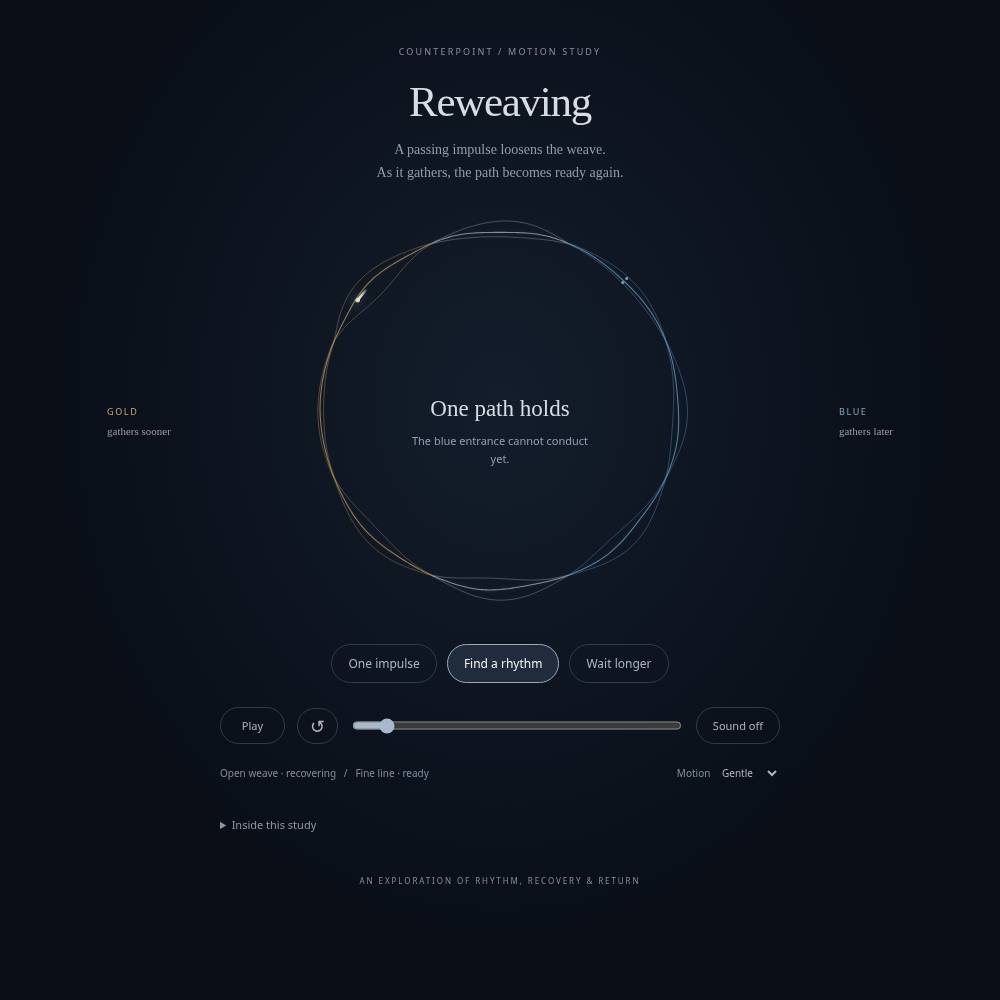
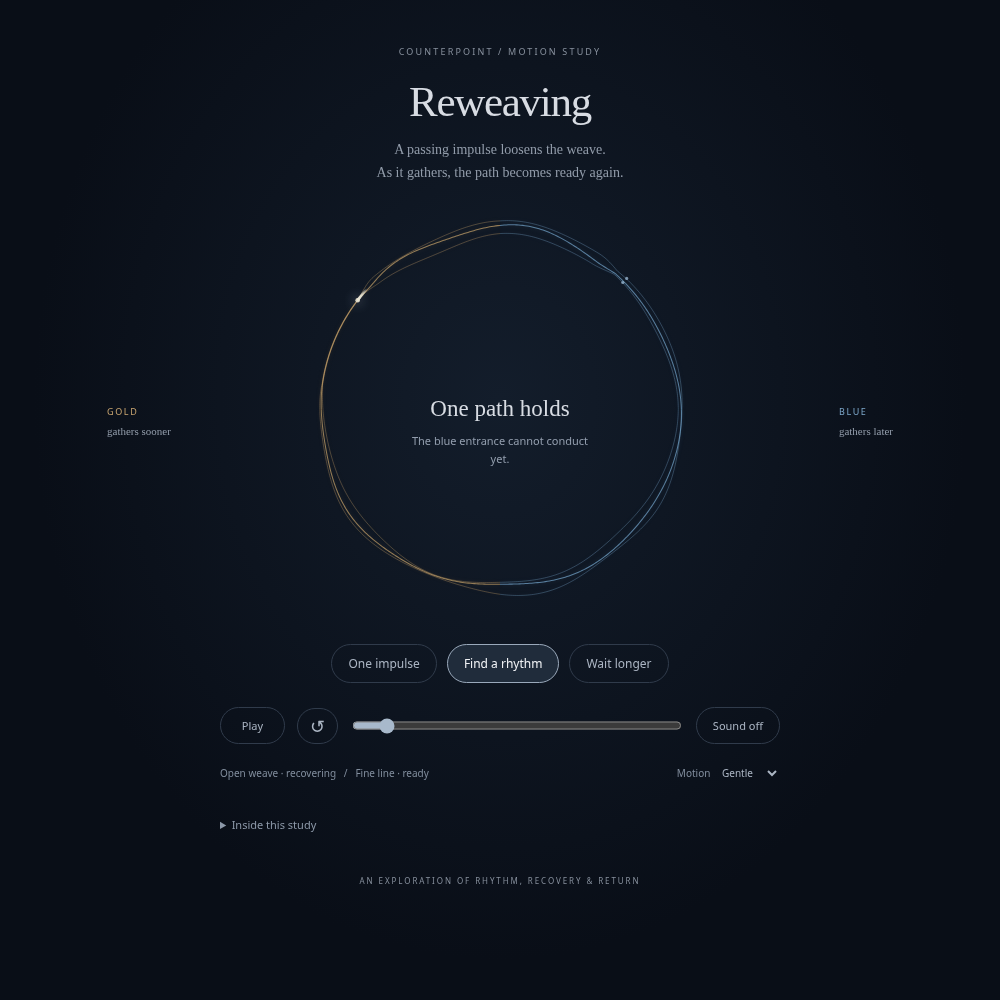
Make weave open behind traveling impulses with varied organic folds

diff --git a/dist/circulation-weave.html b/dist/circulation-weave.html
@@ -3,7 +3,7 @@
 <main><header><span class="eyebrow">COUNTERPOINT / MOTION STUDY</span><h1>Reweaving</h1><p>A passing impulse loosens the weave.<br>As it gathers, the path becomes ready again.</p></header>
 <section class="stage" aria-label="Animated conduction ring"><canvas id="ring" role="img" aria-label="Gold and blue filaments show local recovery. An open weave is refractory, a gathered line is ready."></canvas><div class="center"><span id="phase">Ready to begin</span><p id="explanation">Two paths. Different recovery.</p></div><span class="region gold">GOLD<span>gathers sooner</span></span><span class="region blue">BLUE<span>gathers later</span></span></section>
 <section class="controls" aria-label="Playback controls"><div class="scenarios" role="group" aria-label="Choose an experiment"><button data-mode="single">One impulse</button><button data-mode="reentry" aria-pressed="true">Find a rhythm</button><button data-mode="late">Wait longer</button></div><div class="transport"><button id="play">Play</button><button id="restart" aria-label="Restart experiment">↺</button><input id="timeline" type="range" min="0" max="3600" step="1" value="0" aria-label="Scrub simulation"><button id="sound" aria-pressed="false">Sound off</button></div><div class="foot"><span>Open weave · recovering &nbsp; / &nbsp; Fine line · ready</span><label>Motion <select id="speed" aria-label="Playback speed"><option value="6">Slow</option><option value="4" selected>Gentle</option><option value="2">Flowing</option></select></label></div></section>
-<details><summary>Inside this study</summary><p>Gold tissue has a shorter refractory period than blue tissue. Conduction speed is the same on both paths. “Find a rhythm” delivers a second impulse while the blue entrance is still refractory. Its wave stops there, while the other wave travels around the ring and returns after the blue tissue has recovered.</p><p>The filament spacing represents remaining refractoriness at each simulation site. The curves between sites are an artistic interpolation. Every traveling impulse and block comes from the Counterpoint simulation.</p></details><footer>AN EXPLORATION OF RHYTHM, RECOVERY & RETURN</footer></main><script>const __modules = {};
+<details><summary>Inside this study</summary><p>Gold tissue has a shorter refractory period than blue tissue. Conduction speed is the same on both paths. “Find a rhythm” delivers a second impulse while the blue entrance is still refractory. Its wave stops there, while the other wave travels around the ring and returns after the blue tissue has recovered.</p><p>The impulse opens the filaments as it passes. Their gathering follows an interpolation of the neighboring sites’ refractory periods. Between-site geometry is an artistic representation, not a continuous tissue model. Every traveling impulse and block comes from the Counterpoint simulation.</p></details><footer>AN EXPLORATION OF RHYTHM, RECOVERY & RETURN</footer></main><script>const __modules = {};
 __modules["src/engine/agenda.js"] = (()=>{
 function earlier(a, b) {
   return a.tick - b.tick || a.phase - b.phase || a.order - b.order ||
@@ -1723,7 +1723,61 @@ function openingAt(node, time) {
   return Math.pow(Math.max(0, Math.min(1, (node.refractoryUntilMs - time) / node.erpMs)), 0.55);
 }
 
-return {HORIZON,createWeaveTrace,openingAt};
+const smooth = x => { x = Math.max(0, Math.min(1, x)); return x*x*(3-2*x); };
+
+// Build once per experiment. These are presentation samples, not new engine sites.
+// Each sample can open only after a real transit has physically crossed it.
+function createWeaveSamples(trace, steps = 70) {
+  const launches = trace.events.filter(e => e.type === 'conduction_launched');
+  const collisions = new Map();
+  for (const e of trace.events) if (e.type === 'conduction_collision') {
+    for (const id of e.transitIds) collisions.set(id, e.tMs);
+  }
+  const captures = new Set(trace.events.filter(e => e.type === 'activation').map(e => `${e.nodeId}/${e.tMs}`));
+  return Array.from({length:8}, (_, link) => Array.from({length:steps+1}, (_, k) => {
+    const u=k/steps, angle=(link+u)*Math.PI/4;
+    const erp=trace.world.nodes[link].erpMs*(1-u)+trace.world.nodes[(link+1)%8].erpMs*u;
+    const passages=[];
+    for(const transit of launches) {
+      if(transit.linkId!==`L${link}`)continue;
+      const forward=transit.fromNodeId===`R${link}`;
+      const progress=forward?u:1-u;
+      const arrival=transit.departureMs+progress*(transit.arrivalMs-transit.departureMs);
+      if(arrival>(collisions.get(transit.transitId)??Infinity))continue;
+      const captured=captures.has(`${transit.toNodeId}/${transit.arrivalMs}`);
+      // A failed arrival cannot reopen its refractory destination. Its visual
+      // disturbance fades near that endpoint, preserving the prior recovery.
+      const weight=captured?1:1-smooth((progress-.72)/.28);
+      passages.push({arrival,erp,weight});
+    }
+    return {angle,u,passages};
+  }));
+}
+
+function passageOpening(sample,time) {
+  let opening=0;
+  for(const p of sample.passages) {
+    const age=time-p.arrival;
+    if(age<0||age>=p.erp)continue;
+    // A small trailing shoulder makes the leading tip a continuous zipper.
+    const value=smooth(age/12)*Math.pow(1-age/p.erp,.55)*p.weight;
+    opening=Math.max(opening,value);
+  }
+  return opening;
+}
+
+function filamentOffset(angle,strand,opening) {
+  // Unequal broad folds, a wandering seam and occasional soft crossings.
+  // Periodic around the whole ring, so no repeated segment-shaped pouches.
+  const swell=.76+.22*Math.sin(3*angle+.7)+.13*Math.sin(7*angle-1.1);
+  const drift=2.4*Math.sin(5*angle+.4)+1.2*Math.sin(9*angle+1.3);
+  const shapes=[-9*swell+2.8*Math.sin(4*angle+.3),
+    3.8*Math.sin(3*angle+1.8)+1.5*Math.sin(8*angle),
+    8*swell+3.2*Math.sin(6*angle+2.1)];
+  return (strand-1)*.3+opening*(shapes[strand]+drift);
+}
+
+return {HORIZON,createWeaveTrace,openingAt,createWeaveSamples,passageOpening,filamentOffset};
 })();
 __modules["src/music/mapping.js"] = (()=>{
 const worldAssignments = {
@@ -2240,11 +2294,12 @@ const { createAudioMixer } = __modules["src/music/mixer.js"];
 return {mapActivation,describeNodeMusic,musicTableFor,CHAMBER_VOICINGS,PALETTES,createAudioMixer};
 })();
 __modules["src/prototypes/weave/app.js"] = (()=>{
-const { createWeaveTrace, openingAt, HORIZON } = __modules["src/prototypes/weave/model.js"];
+const { createWeaveTrace, createWeaveSamples, passageOpening, filamentOffset, HORIZON } = __modules["src/prototypes/weave/model.js"];
 const { createAudioMixer, mapActivation } = __modules["src/music/index.js"];
 const $ = id => document.getElementById(id);
 const canvas = $('ring'), ctx = canvas.getContext('2d');
 let trace = createWeaveTrace(), mode = 'reentry', time = 0, playing = false, dilation = 4;
+let samples = createWeaveSamples(trace);
 let anchor = 0, origin = 0, context, mixer, sound = false, generation = 0, audioRun, cursor = 0;
 let width, height, radius, cx, cy;
 const tau = Math.PI * 2;
@@ -2283,20 +2338,17 @@ function draw() {
   if(!width)return;
   ctx.clearRect(0,0,width,height);
   const state=trace.engine.readAt(Math.round(time));
-  // Local overlapping tapered footprints; no jitter and no radial loose ends.
+  // Sample the wave's swept path, leaving the line ahead of it gathered.
+  const openings=samples.map(link=>link.map(point=>passageOpening(point,time)));
   for(let strand=0;strand<3;strand++) {
     for(let i=0;i<8;i++) {
-      const c=color(i), node=state.nodes[`R${i}`], opening=openingAt(node,time);
-      const center=i*tau/8, half=tau/16;
       ctx.beginPath();
-      for(let k=0;k<=70;k++) {
-        const u=k/70, a=center-half+u*half*2;
-        const taper=Math.pow(Math.sin(Math.PI*u),1.25);
-        const bend=Math.sin(u*Math.PI*(strand===1?1.6:1.15)+i*.47+strand*2.2);
-        const separation=(strand-1)*(.35+opening*11*taper)+opening*3*taper*bend;
-        const p=position(a,separation);
+      for(let k=0;k<samples[i].length;k++) {
+        const point=samples[i][k];
+        const p=position(point.angle,filamentOffset(point.angle,strand,openings[i][k]));
         k===0?ctx.moveTo(...p):ctx.lineTo(...p);
       }
+      const c=color(i===0?1:i===4?5:i);
       ctx.strokeStyle=rgba(c,strand===1?.68:.43);ctx.lineWidth=strand===1?1.05:.75;
       ctx.shadowColor=rgba(c,.25);ctx.shadowBlur=5;ctx.stroke();ctx.shadowBlur=0;
     }
@@ -2351,7 +2403,7 @@ $('sound').onclick=async()=>{
 };
 document.querySelectorAll('[data-mode]').forEach(button=>{
   button.setAttribute('aria-pressed',String(button.dataset.mode===mode));
-  button.onclick=()=>{stop();mode=button.dataset.mode;trace=createWeaveTrace(mode==='single'?null:mode==='late'?340:240);time=0;
+  button.onclick=()=>{stop();mode=button.dataset.mode;trace=createWeaveTrace(mode==='single'?null:mode==='late'?340:240);samples=createWeaveSamples(trace);time=0;
     document.querySelectorAll('[data-mode]').forEach(b=>b.setAttribute('aria-pressed',String(b===button)));
     start();draw();};
 });

diff --git a/src/prototypes/weave/index.html b/src/prototypes/weave/index.html
@@ -2,4 +2,4 @@
 <main><header><span class="eyebrow">COUNTERPOINT / MOTION STUDY</span><h1>Reweaving</h1><p>A passing impulse loosens the weave.<br>As it gathers, the path becomes ready again.</p></header>
 <section class="stage" aria-label="Animated conduction ring"><canvas id="ring" role="img" aria-label="Gold and blue filaments show local recovery. An open weave is refractory, a gathered line is ready."></canvas><div class="center"><span id="phase">Ready to begin</span><p id="explanation">Two paths. Different recovery.</p></div><span class="region gold">GOLD<span>gathers sooner</span></span><span class="region blue">BLUE<span>gathers later</span></span></section>
 <section class="controls" aria-label="Playback controls"><div class="scenarios" role="group" aria-label="Choose an experiment"><button data-mode="single">One impulse</button><button data-mode="reentry" aria-pressed="true">Find a rhythm</button><button data-mode="late">Wait longer</button></div><div class="transport"><button id="play">Play</button><button id="restart" aria-label="Restart experiment">↺</button><input id="timeline" type="range" min="0" max="3600" step="1" value="0" aria-label="Scrub simulation"><button id="sound" aria-pressed="false">Sound off</button></div><div class="foot"><span>Open weave · recovering &nbsp; / &nbsp; Fine line · ready</span><label>Motion <select id="speed" aria-label="Playback speed"><option value="6">Slow</option><option value="4" selected>Gentle</option><option value="2">Flowing</option></select></label></div></section>
-<details><summary>Inside this study</summary><p>Gold tissue has a shorter refractory period than blue tissue. Conduction speed is the same on both paths. “Find a rhythm” delivers a second impulse while the blue entrance is still refractory. Its wave stops there, while the other wave travels around the ring and returns after the blue tissue has recovered.</p><p>The filament spacing represents remaining refractoriness at each simulation site. The curves between sites are an artistic interpolation. Every traveling impulse and block comes from the Counterpoint simulation.</p></details><footer>AN EXPLORATION OF RHYTHM, RECOVERY & RETURN</footer></main><script>/* INLINE_APP */</script></body></html>
+<details><summary>Inside this study</summary><p>Gold tissue has a shorter refractory period than blue tissue. Conduction speed is the same on both paths. “Find a rhythm” delivers a second impulse while the blue entrance is still refractory. Its wave stops there, while the other wave travels around the ring and returns after the blue tissue has recovered.</p><p>The impulse opens the filaments as it passes. Their gathering follows an interpolation of the neighboring sites’ refractory periods. Between-site geometry is an artistic representation, not a continuous tissue model. Every traveling impulse and block comes from the Counterpoint simulation.</p></details><footer>AN EXPLORATION OF RHYTHM, RECOVERY & RETURN</footer></main><script>/* INLINE_APP */</script></body></html>

diff --git a/src/prototypes/weave/model.js b/src/prototypes/weave/model.js
@@ -19,3 +19,57 @@ export function openingAt(node, time) {
   if (node.excitable || node.lastActivationMs === null) return 0;
   return Math.pow(Math.max(0, Math.min(1, (node.refractoryUntilMs - time) / node.erpMs)), 0.55);
 }
+
+const smooth = x => { x = Math.max(0, Math.min(1, x)); return x*x*(3-2*x); };
+
+// Build once per experiment. These are presentation samples, not new engine sites.
+// Each sample can open only after a real transit has physically crossed it.
+export function createWeaveSamples(trace, steps = 70) {
+  const launches = trace.events.filter(e => e.type === 'conduction_launched');
+  const collisions = new Map();
+  for (const e of trace.events) if (e.type === 'conduction_collision') {
+    for (const id of e.transitIds) collisions.set(id, e.tMs);
+  }
+  const captures = new Set(trace.events.filter(e => e.type === 'activation').map(e => `${e.nodeId}/${e.tMs}`));
+  return Array.from({length:8}, (_, link) => Array.from({length:steps+1}, (_, k) => {
+    const u=k/steps, angle=(link+u)*Math.PI/4;
+    const erp=trace.world.nodes[link].erpMs*(1-u)+trace.world.nodes[(link+1)%8].erpMs*u;
+    const passages=[];
+    for(const transit of launches) {
+      if(transit.linkId!==`L${link}`)continue;
+      const forward=transit.fromNodeId===`R${link}`;
+      const progress=forward?u:1-u;
+      const arrival=transit.departureMs+progress*(transit.arrivalMs-transit.departureMs);
+      if(arrival>(collisions.get(transit.transitId)??Infinity))continue;
+      const captured=captures.has(`${transit.toNodeId}/${transit.arrivalMs}`);
+      // A failed arrival cannot reopen its refractory destination. Its visual
+      // disturbance fades near that endpoint, preserving the prior recovery.
+      const weight=captured?1:1-smooth((progress-.72)/.28);
+      passages.push({arrival,erp,weight});
+    }
+    return {angle,u,passages};
+  }));
+}
+
+export function passageOpening(sample,time) {
+  let opening=0;
+  for(const p of sample.passages) {
+    const age=time-p.arrival;
+    if(age<0||age>=p.erp)continue;
+    // A small trailing shoulder makes the leading tip a continuous zipper.
+    const value=smooth(age/12)*Math.pow(1-age/p.erp,.55)*p.weight;
+    opening=Math.max(opening,value);
+  }
+  return opening;
+}
+
+export function filamentOffset(angle,strand,opening) {
+  // Unequal broad folds, a wandering seam and occasional soft crossings.
+  // Periodic around the whole ring, so no repeated segment-shaped pouches.
+  const swell=.76+.22*Math.sin(3*angle+.7)+.13*Math.sin(7*angle-1.1);
+  const drift=2.4*Math.sin(5*angle+.4)+1.2*Math.sin(9*angle+1.3);
+  const shapes=[-9*swell+2.8*Math.sin(4*angle+.3),
+    3.8*Math.sin(3*angle+1.8)+1.5*Math.sin(8*angle),
+    8*swell+3.2*Math.sin(6*angle+2.1)];
+  return (strand-1)*.3+opening*(shapes[strand]+drift);
+}

diff --git a/src/prototypes/weave/app.js b/src/prototypes/weave/app.js
@@ -1,8 +1,9 @@
-import { createWeaveTrace, openingAt, HORIZON } from './model.js';
+import { createWeaveTrace, createWeaveSamples, passageOpening, filamentOffset, HORIZON } from './model.js';
 import { createAudioMixer, mapActivation } from '../../music/index.js';
 const $ = id => document.getElementById(id);
 const canvas = $('ring'), ctx = canvas.getContext('2d');
 let trace = createWeaveTrace(), mode = 'reentry', time = 0, playing = false, dilation = 4;
+let samples = createWeaveSamples(trace);
 let anchor = 0, origin = 0, context, mixer, sound = false, generation = 0, audioRun, cursor = 0;
 let width, height, radius, cx, cy;
 const tau = Math.PI * 2;
@@ -41,20 +42,17 @@ function draw() {
   if(!width)return;
   ctx.clearRect(0,0,width,height);
   const state=trace.engine.readAt(Math.round(time));
-  // Local overlapping tapered footprints; no jitter and no radial loose ends.
+  // Sample the wave's swept path, leaving the line ahead of it gathered.
+  const openings=samples.map(link=>link.map(point=>passageOpening(point,time)));
   for(let strand=0;strand<3;strand++) {
     for(let i=0;i<8;i++) {
-      const c=color(i), node=state.nodes[`R${i}`], opening=openingAt(node,time);
-      const center=i*tau/8, half=tau/16;
       ctx.beginPath();
-      for(let k=0;k<=70;k++) {
-        const u=k/70, a=center-half+u*half*2;
-        const taper=Math.pow(Math.sin(Math.PI*u),1.25);
-        const bend=Math.sin(u*Math.PI*(strand===1?1.6:1.15)+i*.47+strand*2.2);
-        const separation=(strand-1)*(.35+opening*11*taper)+opening*3*taper*bend;
-        const p=position(a,separation);
+      for(let k=0;k<samples[i].length;k++) {
+        const point=samples[i][k];
+        const p=position(point.angle,filamentOffset(point.angle,strand,openings[i][k]));
         k===0?ctx.moveTo(...p):ctx.lineTo(...p);
       }
+      const c=color(i===0?1:i===4?5:i);
       ctx.strokeStyle=rgba(c,strand===1?.68:.43);ctx.lineWidth=strand===1?1.05:.75;
       ctx.shadowColor=rgba(c,.25);ctx.shadowBlur=5;ctx.stroke();ctx.shadowBlur=0;
     }
@@ -109,7 +107,7 @@ $('sound').onclick=async()=>{
 };
 document.querySelectorAll('[data-mode]').forEach(button=>{
   button.setAttribute('aria-pressed',String(button.dataset.mode===mode));
-  button.onclick=()=>{stop();mode=button.dataset.mode;trace=createWeaveTrace(mode==='single'?null:mode==='late'?340:240);time=0;
+  button.onclick=()=>{stop();mode=button.dataset.mode;trace=createWeaveTrace(mode==='single'?null:mode==='late'?340:240);samples=createWeaveSamples(trace);time=0;
     document.querySelectorAll('[data-mode]').forEach(b=>b.setAttribute('aria-pressed',String(b===button)));
     start();draw();};
 });

diff --git a/tests/weave.test.js b/tests/weave.test.js
@@ -1,6 +1,6 @@
 import test from 'node:test';
 import assert from 'node:assert/strict';
-import { createWeaveTrace, openingAt } from '../src/prototypes/weave/model.js';
+import { createWeaveTrace, openingAt, createWeaveSamples, passageOpening, filamentOffset } from '../src/prototypes/weave/model.js';
 
 test('weave premature impulse blocks on blue without resetting its recovery and sustains return',()=>{
   const {events,engine}=createWeaveTrace();
@@ -17,4 +17,27 @@ test('single and later impulses extinguish without sustained return',()=>{
     assert.equal(events.filter(e=>e.type==='activation_blocked').length,0);
     assert.ok(events.filter(e=>e.type==='activation').every(e=>e.tMs<=580));
   }
+});
+test('zipper opens behind each wave, never ahead, in both directions',()=>{
+  const samples=createWeaveSamples(createWeaveTrace(null),100);
+  for(const [link,behind,ahead] of [[0,25,75],[7,75,25]]){
+    assert.ok(passageOpening(samples[link][behind],30)>0);
+    assert.equal(passageOpening(samples[link][ahead],30),0);
+    assert.equal(passageOpening(samples[link][50],30),0);
+    assert.ok(passageOpening(samples[link][50],45)>0);
+  }
+});
+test('blocked arrival preserves destination recovery in the visual field',()=>{
+  const withS2=createWeaveSamples(createWeaveTrace(),100)[0][100];
+  const single=createWeaveSamples(createWeaveTrace(null),100)[0][100];
+  for(const time of [300,310,359,360,400])assert.equal(passageOpening(withS2,time),passageOpening(single,time));
+});
+test('collision stops the swept opening and geometry joins around the ring',()=>{
+  const trace=createWeaveTrace(null);
+  const transit=trace.events.find(e=>e.type==='conduction_launched');
+  const synthetic={...trace,events:[transit,{type:'conduction_collision',tMs:30,transitIds:[transit.transitId]}]};
+  const samples=createWeaveSamples(synthetic,100);
+  assert.equal(passageOpening(samples[0][75],50),0);
+  assert.ok(passageOpening(samples[0][25],50)>0);
+  for(let strand=0;strand<3;strand++)assert.ok(Math.abs(filamentOffset(0,strand,.8)-filamentOffset(Math.PI*2,strand,.8))<1e-10);
 });

diff --git a/docs/runs/weave-02.md b/docs/runs/weave-02.md
@@ -1,0 +1,11 @@
+# Circulation reweaving revision
+
+2026-11-27. User requested varied organic morphologies and an impulse that unzips the ring as it travels.
+
+Replaced node-centered whole-segment opening with a sampled swept-path presentation field. Each point opens only after a real engine transit crosses it, with a short smooth shoulder behind the tip. Passage records are precomputed per experiment; recovery uses interpolated neighboring ERP. Collisions truncate the swept path. Failed arrivals taper their visual disturbance before the destination and cannot reset that site's recovery. Engine dynamics are unchanged.
+
+Three strands now use several unequal continuous folds and seam crossings around the whole ring, eliminating repeated per-segment pouches. Shape is deterministic and periodic, avoiding random flicker and preserving identical replay/scrub appearance. This remains an artistic interpolation between discrete engine sites, not a continuous electrophysiology solver.
+
+Validation: 178 Node tests pass. Added causal opening checks in both directions, blocked endpoint recovery preservation, collision truncation and seamless circumference geometry. Chromium desktop/phone controls still pass without page errors or horizontal overflow. Updated screenshots and added zipper-front.png. A 120-frame synchronous scrub/render measurement averaged 0.59 ms CPU work per redraw in headless Chromium, excluding asynchronous GPU compositing; this is not a hardware-wide frame-rate guarantee.
+
+Build: npm run build:weave. Output: dist/circulation-weave.html. Await user assessment of visual motion before integration into main Circulation.
